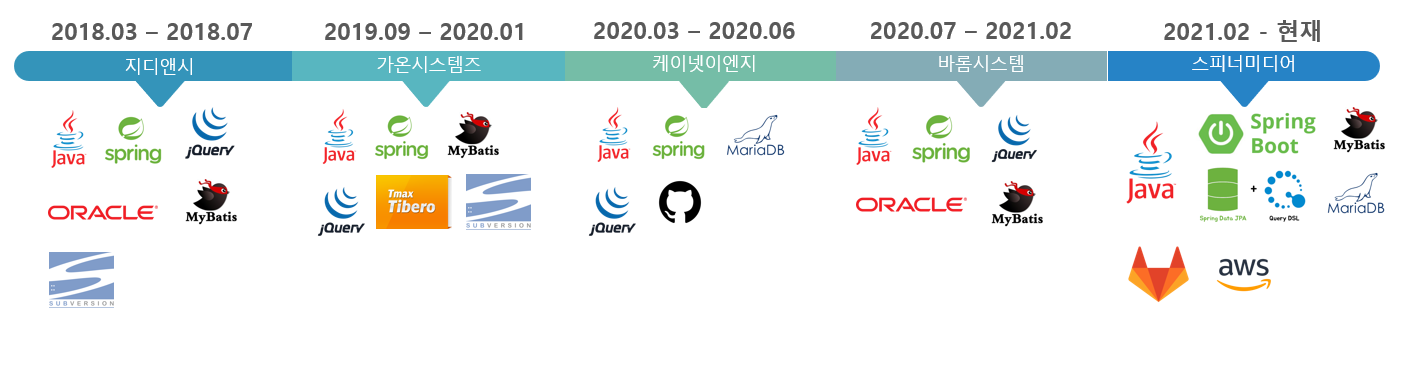
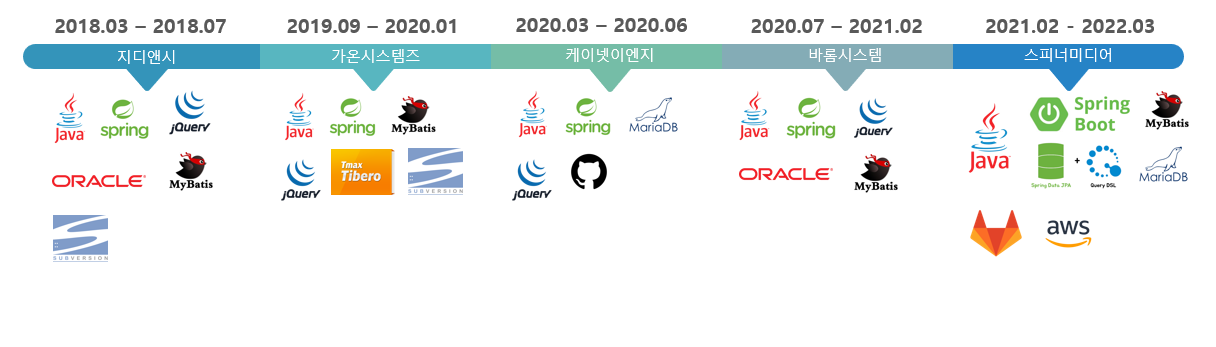
master

diff --git a/index.html b/index.html
@@ -128,7 +128,7 @@
                             <a href="/resource/v1_rest.png" target="_blank" class="mb-2"><img class="rest-pic" src="/resource/v1_rest.png"></a>
                             <a href="/resource/v2_rest.png" target="_blank" class="mb-5"><img class="rest-pic" src="/resource/v2_rest.png"></a>
                         </div>
-                        <div class="flex-shrink-0"><span class="text-primary">2021.02 - Present</span></div>
+                        <div class="flex-shrink-0"><span class="text-primary">2021.02 - 2022.03</span></div>
                     </div>
                     <div class="d-flex flex-column flex-md-row justify-content-between mb-5">
                         <div class="flex-grow-1">
